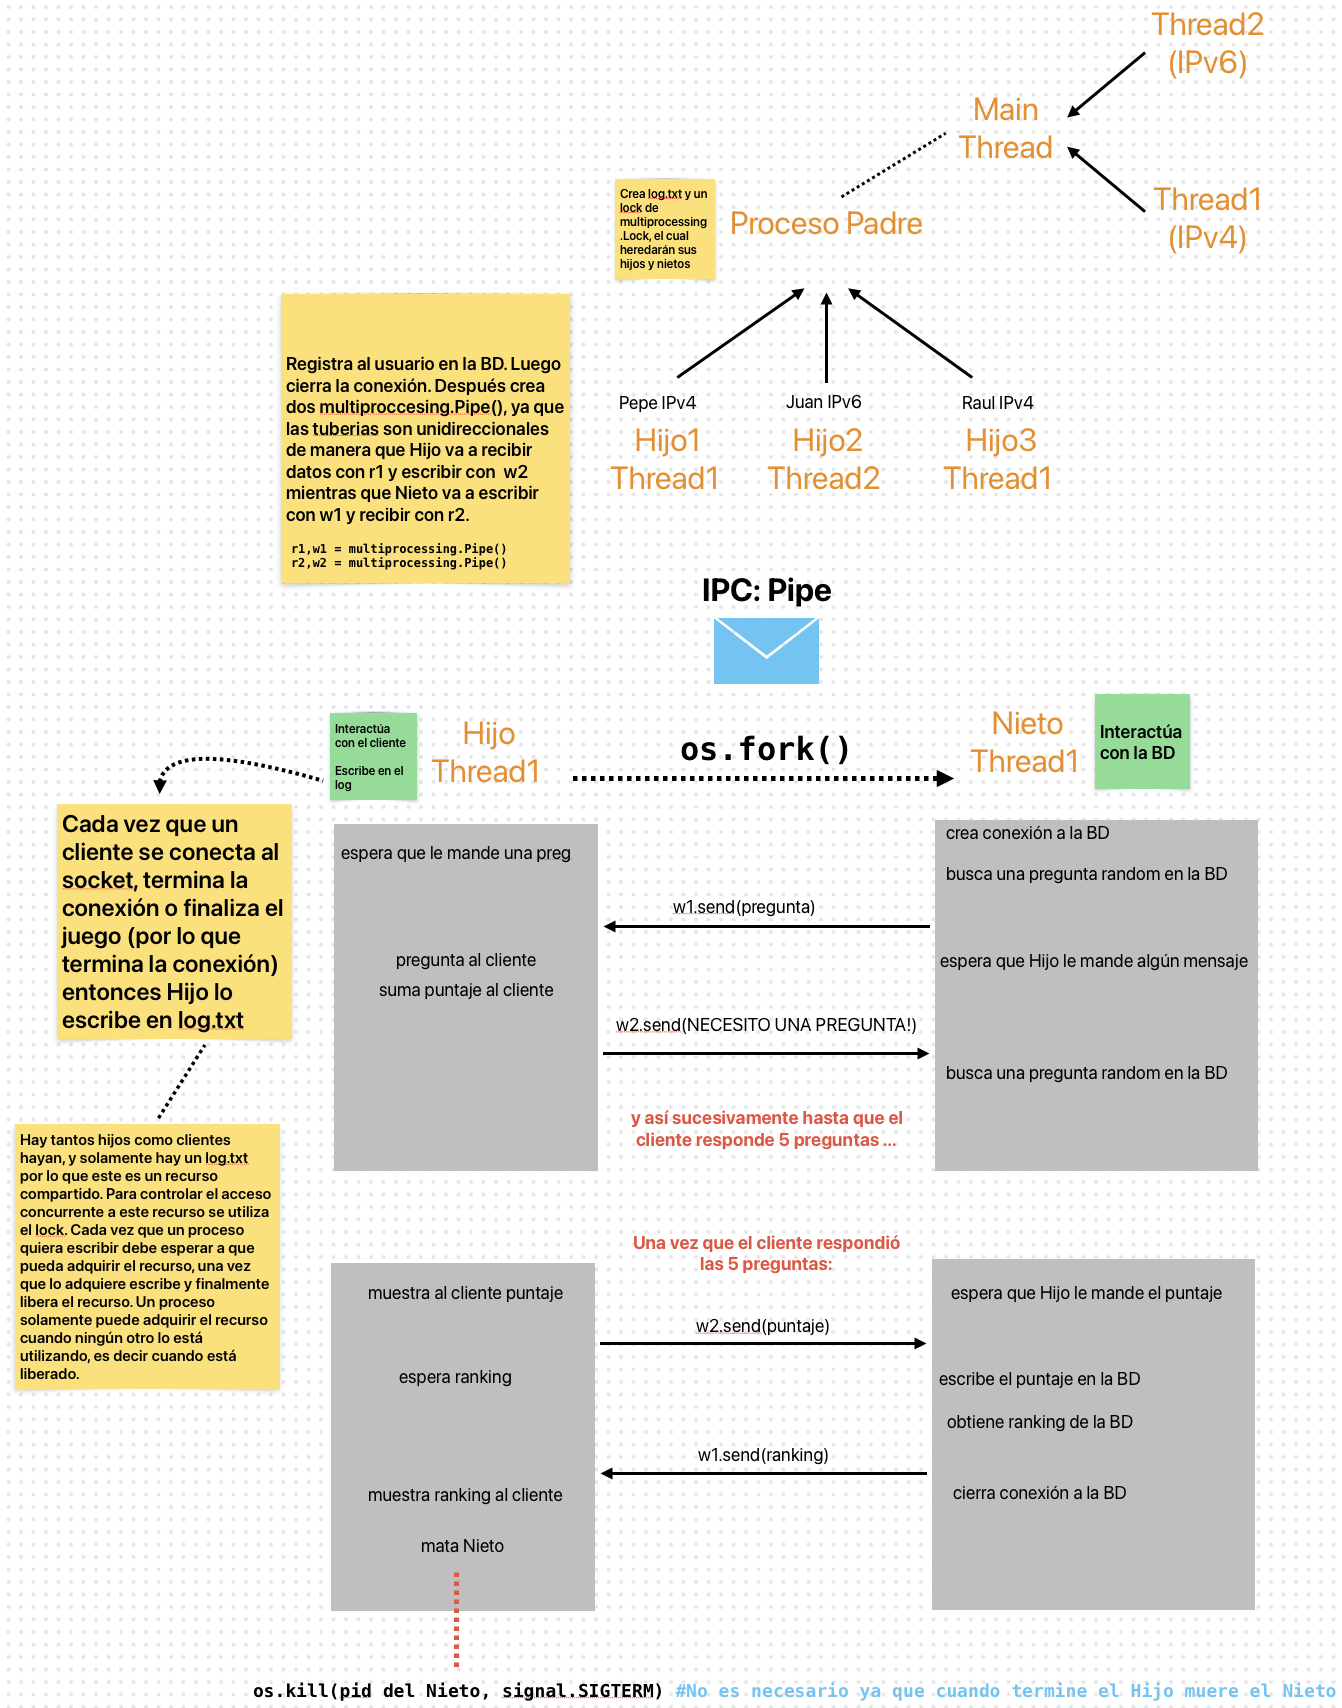
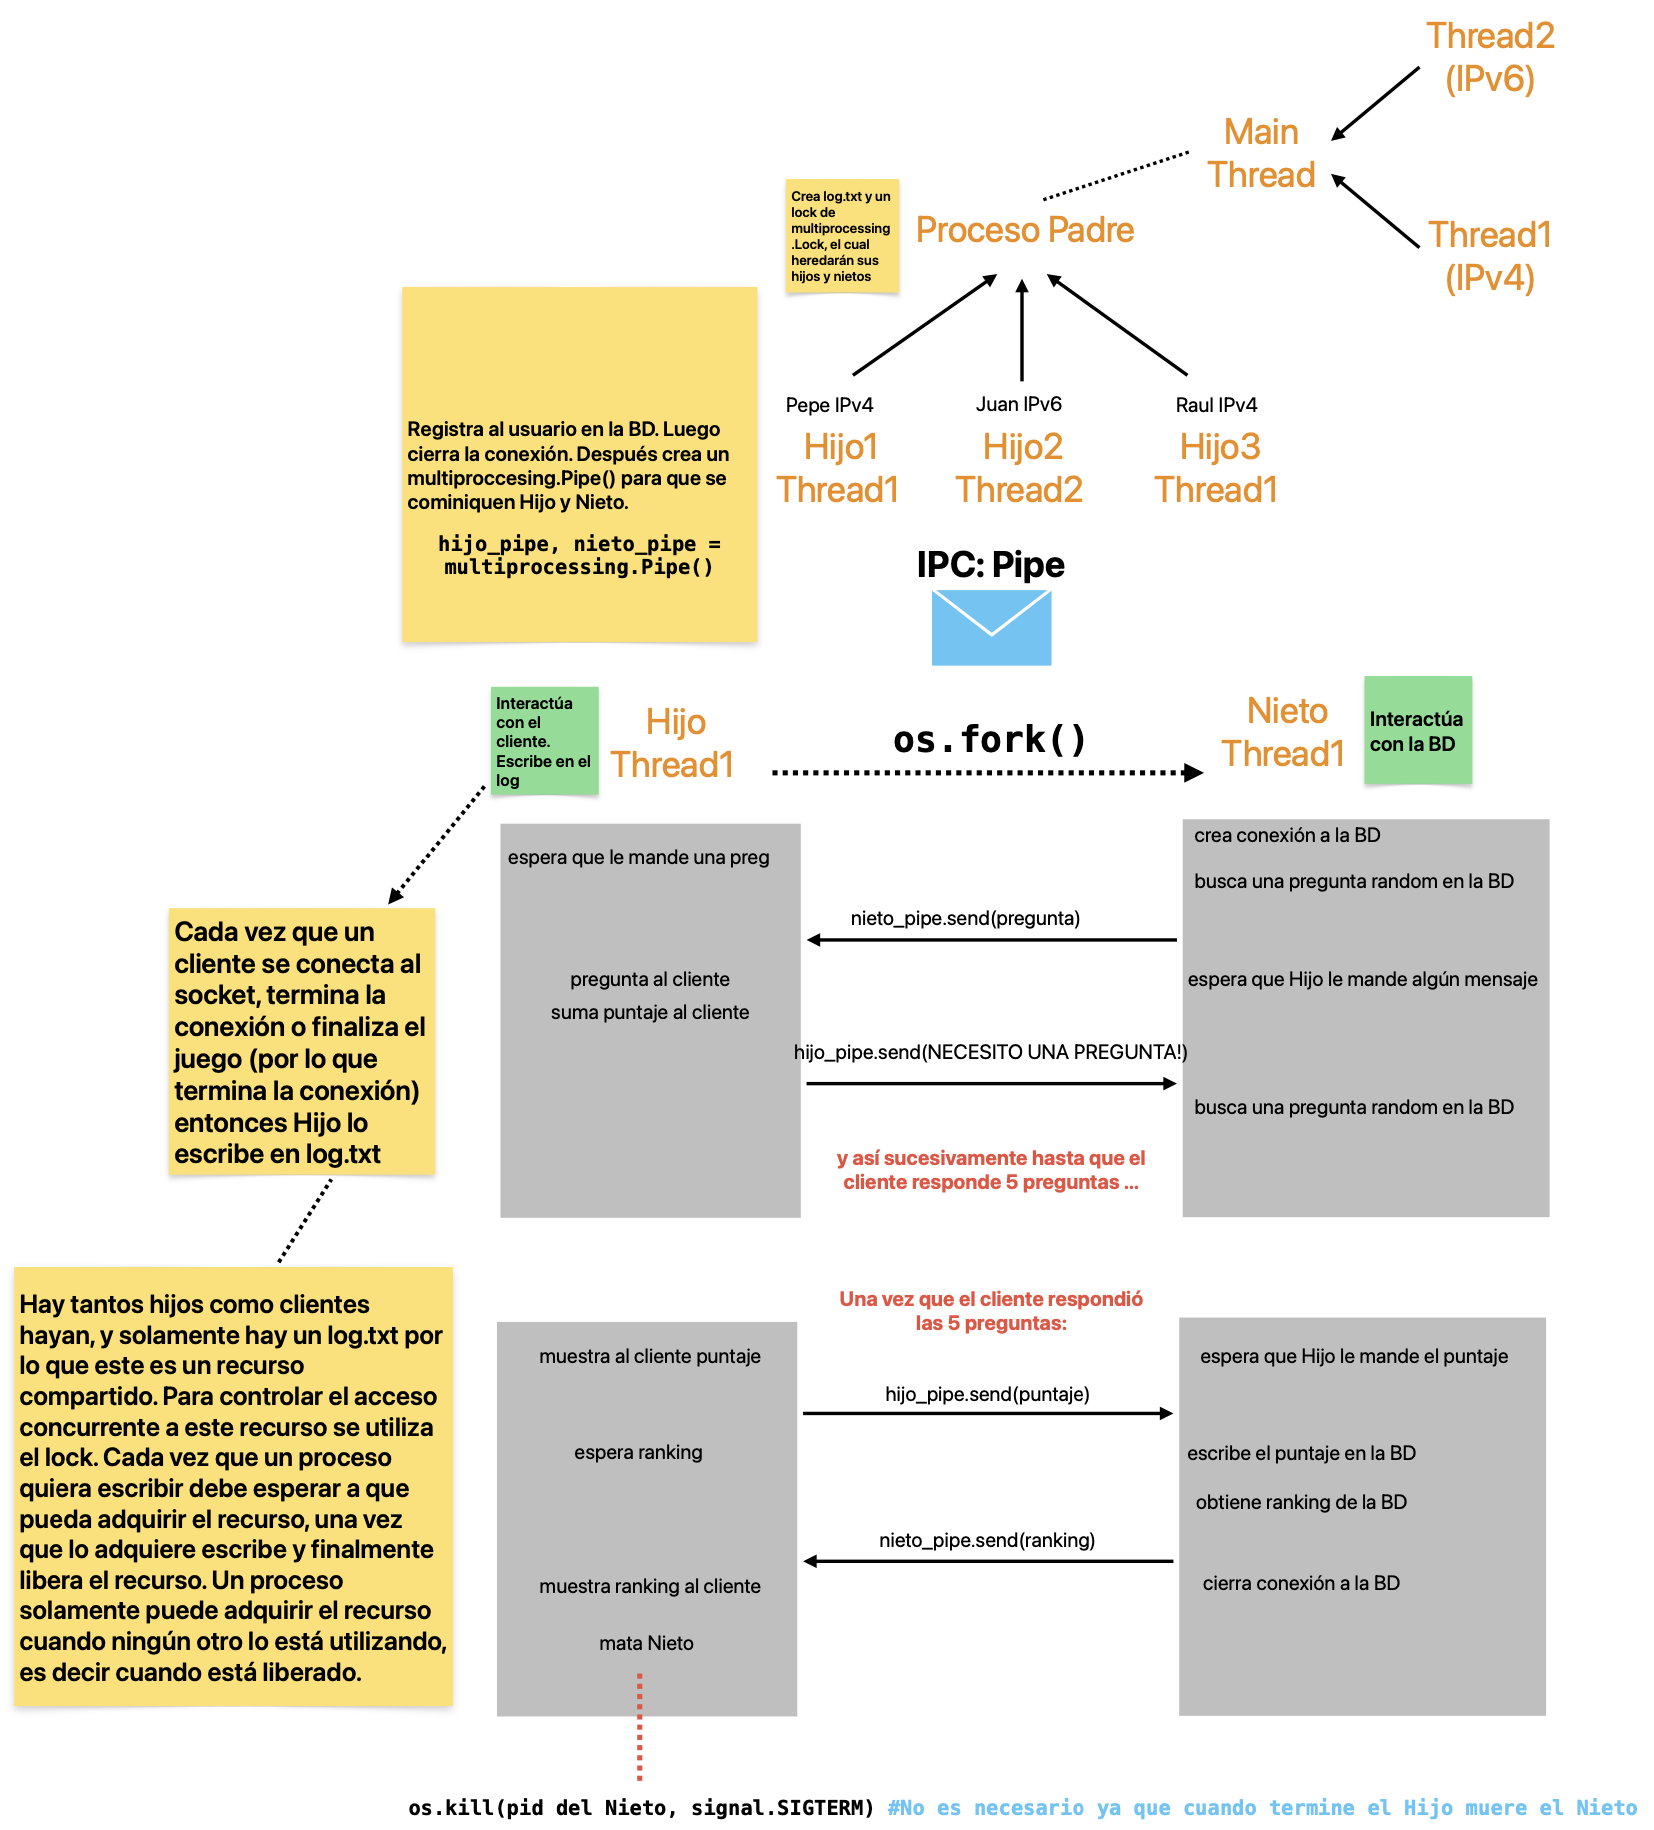
15/06

diff --git a/final/app/server.py b/final/app/server.py
@@ -66,8 +66,7 @@ class MyTCPHandler(socketserver.BaseRequestHandler):
                     
             conexion.close()
 
-        r1,w1 = multiprocessing.Pipe()
-        r2,w2 = multiprocessing.Pipe()
+        hijo_pipe, nieto_pipe = multiprocessing.Pipe()
 
         pidnieto = os.fork()
 
@@ -84,19 +83,22 @@ class MyTCPHandler(socketserver.BaseRequestHandler):
                 if preguntas:
                     print(colored("\nProceso NIETO: {} {} Hilo: {} está buscando pregunta en la BD".format(os.getppid(), os.getpid(), threading.current_thread().name), "magenta"))
                     pregunta, respuesta1, respuesta2 = pregunta_random(conexion, hechas)
-                    w1.send(pregunta)
-                    w1.send(respuesta1)
-                    w1.send(respuesta2)
 
-                    msg = r2.recv()
+                    nieto_pipe.send(pregunta)
+                    nieto_pipe.send(respuesta1)
+                    nieto_pipe.send(respuesta2)
+
+                    msg = nieto_pipe.recv()
 
                 else:
                     print(colored("\nProceso NIETO: {} {} Hilo: {} está escribiendo puntaje en la BD".format(os.getppid(), os.getpid(), threading.current_thread().name), "magenta"))
-                    puntaje = r2.recv()
+            
+                    puntaje = nieto_pipe.recv()
                     conexion.execute("""UPDATE jugadores SET puntaje = {} WHERE alias = '{}' """.format(puntaje, alias))
                     conexion.commit()
                     ranking = conexion.execute("SELECT puntaje, alias FROM jugadores ORDER by puntaje DESC").fetchall()
-                    w1.send(ranking)
+                  
+                    nieto_pipe.send(ranking)
                     conexion.close()
                     break
                     
@@ -105,9 +107,10 @@ class MyTCPHandler(socketserver.BaseRequestHandler):
 
                 if preguntas:
                     print(colored("\nProceso HIJO: {} {} Hilo: {} está interactuando con '{}'".format(os.getppid(), os.getpid(), threading.current_thread().name, alias), "cyan"))
-                    pregunta = r1.recv()
-                    respuesta1 = r1.recv()
-                    respuesta2 = r1.recv()
+          
+                    pregunta = hijo_pipe.recv()
+                    respuesta1 = hijo_pipe.recv()
+                    respuesta2 = hijo_pipe.recv()
                     pregunta_completa = "- {}) {} \n     a) {} \n     b) {}".format(contador, pregunta["pregunta"], respuesta1["respuesta"], respuesta2["respuesta"])
 
                     dato = pickle.dumps(pregunta_completa)
@@ -140,16 +143,17 @@ class MyTCPHandler(socketserver.BaseRequestHandler):
 
                         puntaje = puntaje + 20
 
-                    w2.send("\nNECESITO OTRA PREGUNTA!")
+                    hijo_pipe.send("\nNECESITO OTRA PREGUNTA!")
 
 
                 else:
                     print(colored("\nProceso HIJO: {} {} Hilo: {} está mostrando puntaje a '{}'".format(os.getppid(), os.getpid(), threading.current_thread().name, alias), "cyan"))
                     mensaje = pickle.dumps("- SERVER: Obtuviste {} puntos".format(puntaje))
                     self.request.sendall(mensaje) 
-                    w2.send(puntaje)
 
-                    ranking = r1.recv()
+                    hijo_pipe.send(puntaje)
+
+                    ranking = hijo_pipe.recv()
 
                     os.kill(pidnieto, signal.SIGTERM)      #? No hace falta ya que NIETO se muere cuando HIJO muere 
                     time.sleep(2)
